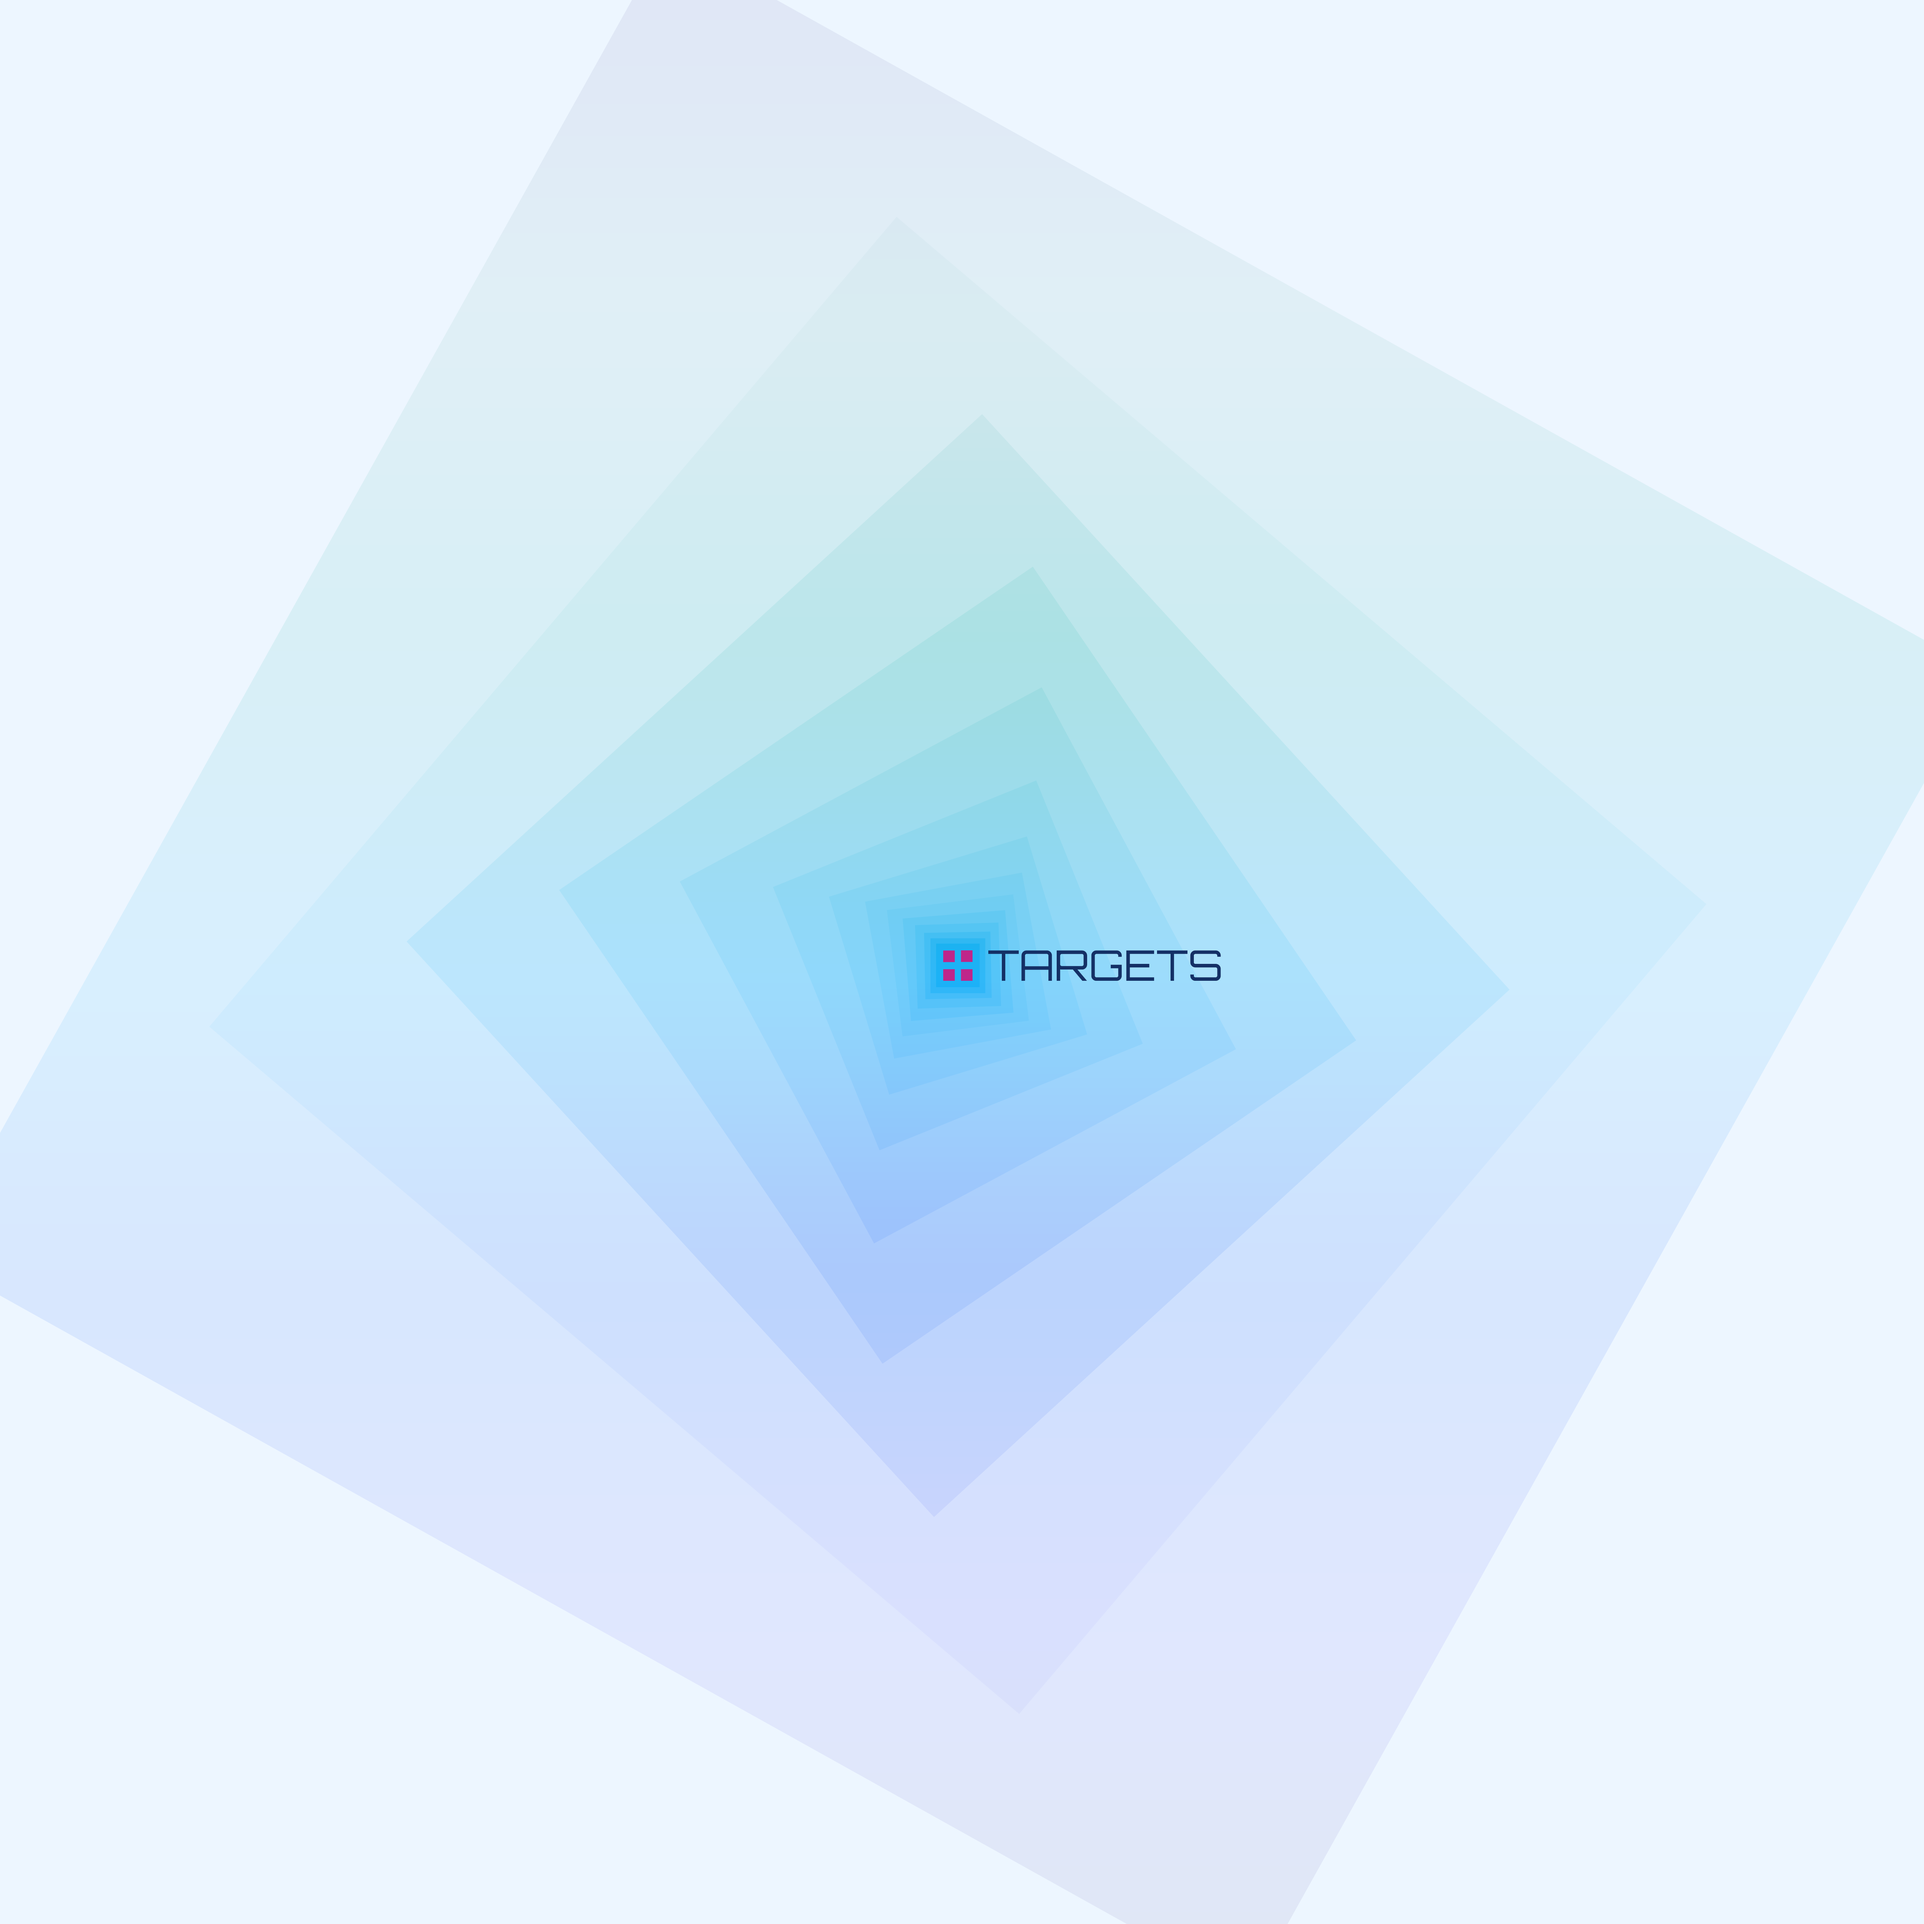
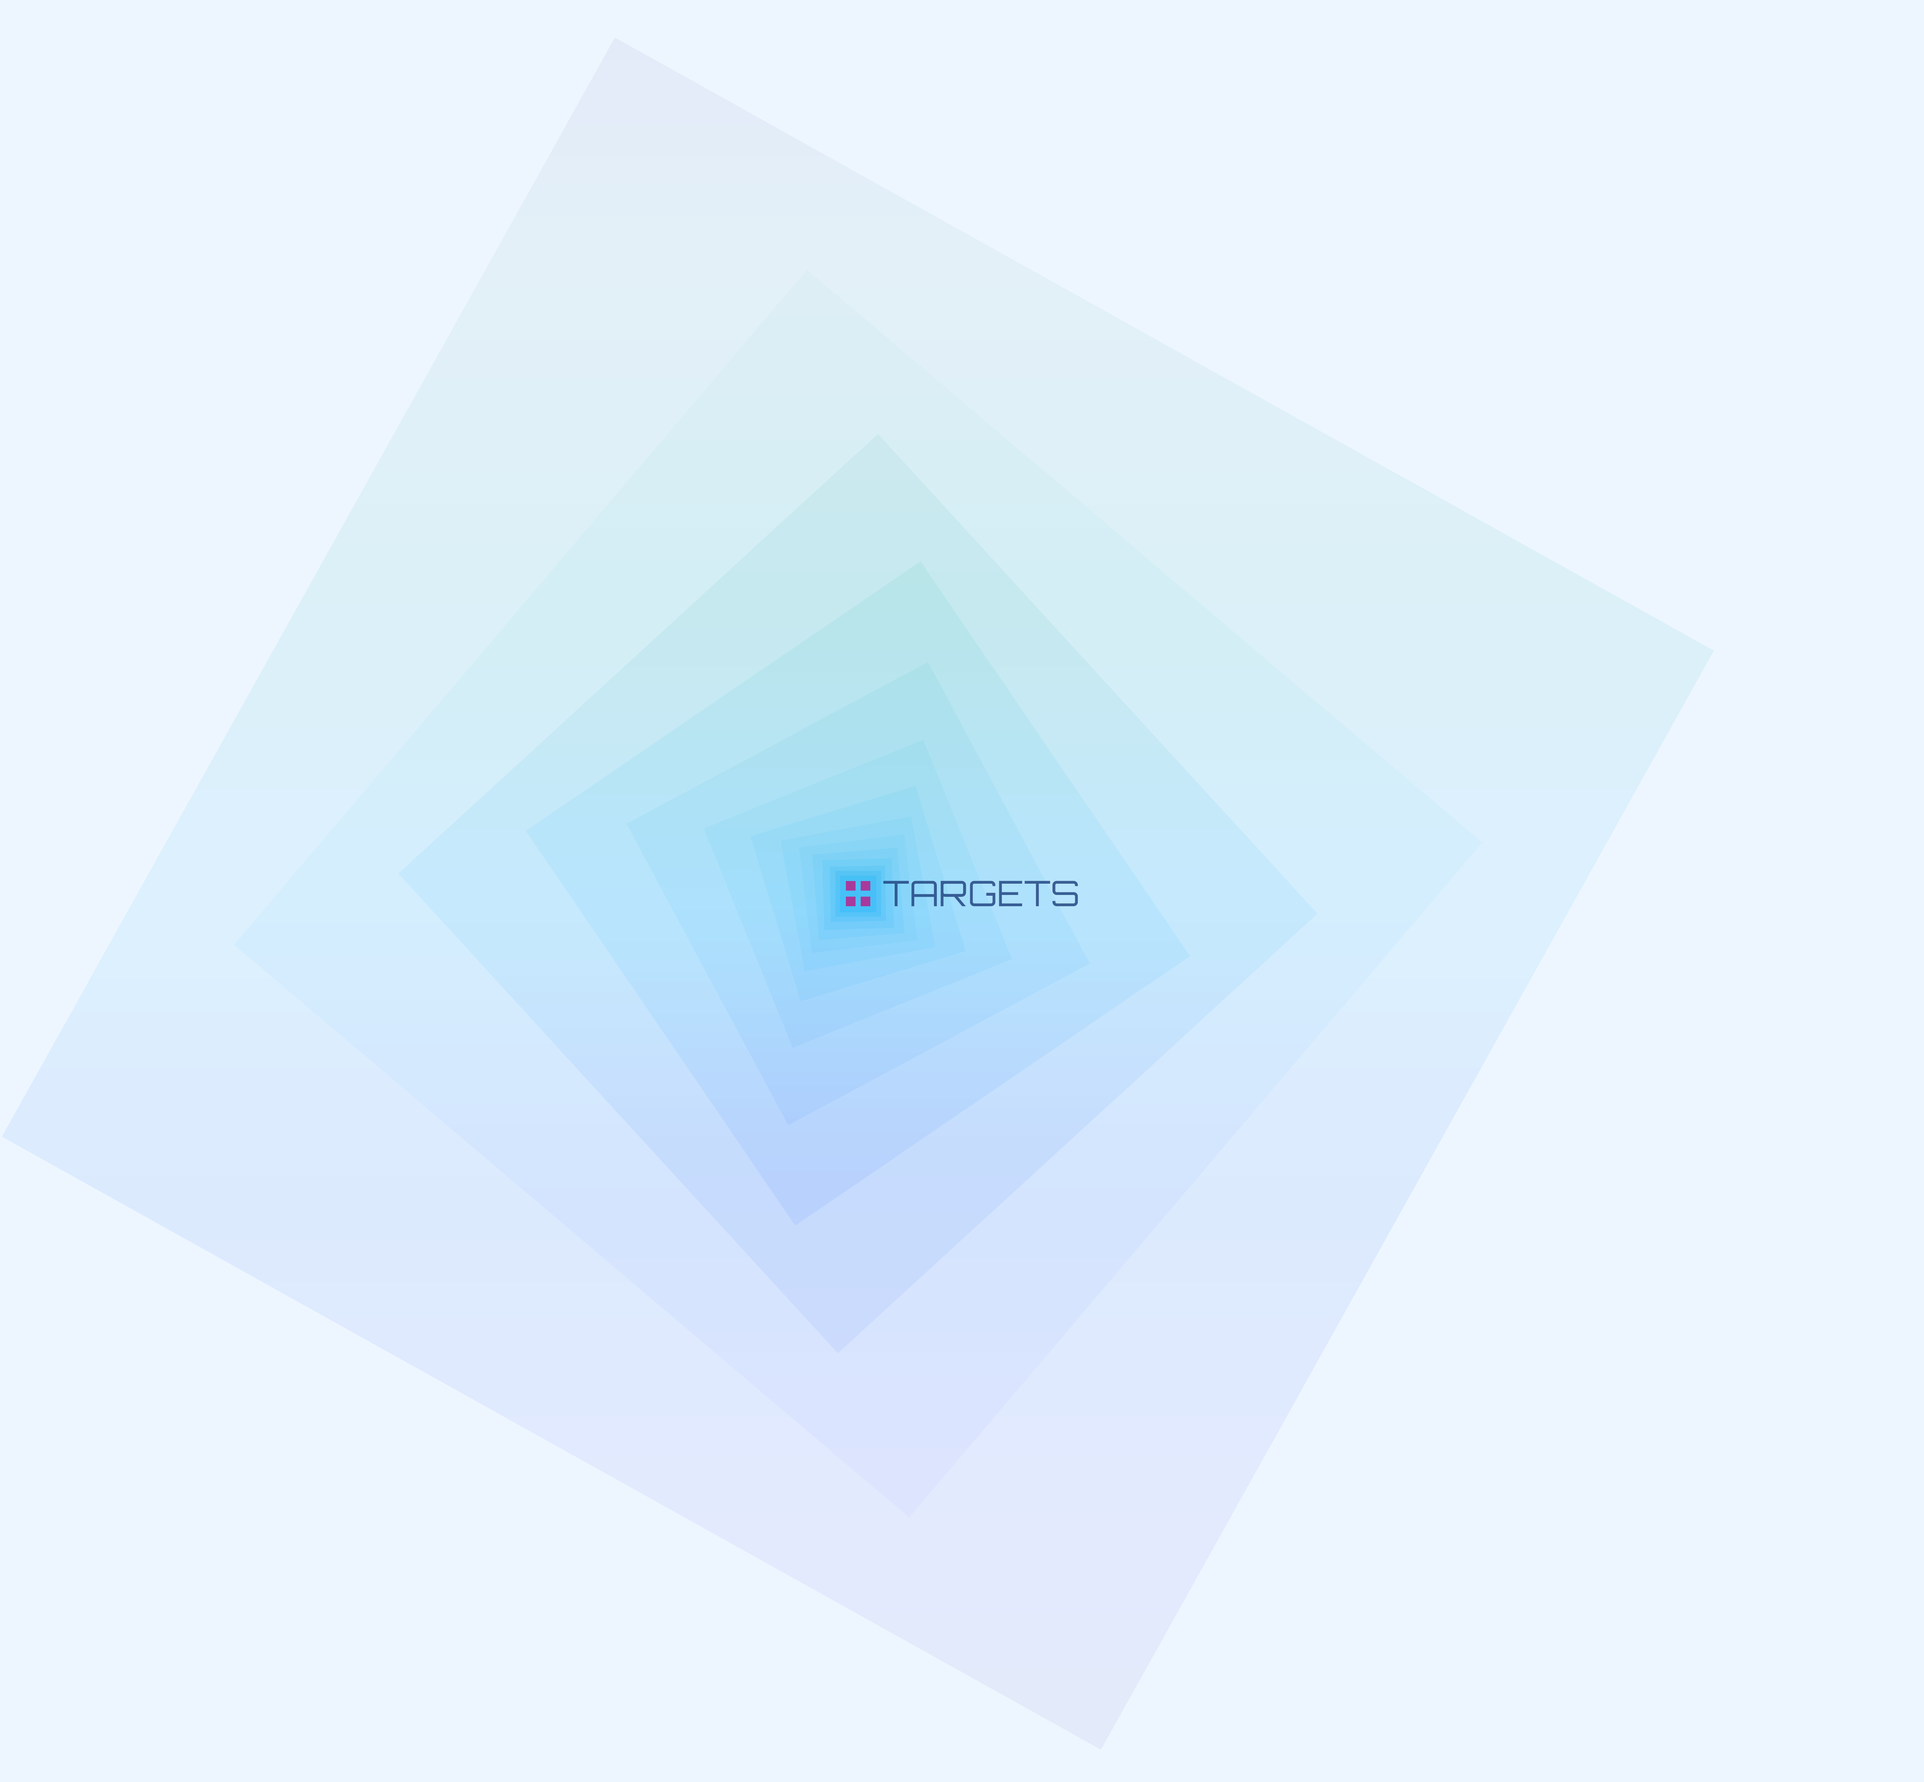
fixing bg image

diff --git a/index.html b/index.html
@@ -19,7 +19,7 @@
             padding: 0;
             margin: 0;
             background-image: url('/images/bg.png');
-            background-position: 57.5% 55%;
+            background-position: 50% 55%;
             background-size: 2000px;
             text-align: center;
         }
